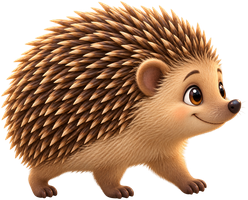
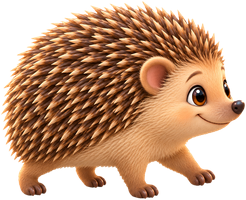
feat: Neuer KI-Igel mit allen vier Beinen
tools/ki-bild.py entfernt jetzt auch hellen Hintergrund (weiß oder
aufgemaltes Karomuster), wenn das KI-Bild nicht freigestellt ist.

Claude-Session: https://claude.ai/code/session_01ENXNh4hjQ4SLsuSQWgswJv

diff --git a/tools/ki-bild.py b/tools/ki-bild.py
@@ -2,6 +2,8 @@
 # Aufruf im Projektordner:  python3 tools/ki-bild.py <bild.png> <name>
 # Beispiel:                 python3 tools/ki-bild.py ~/Downloads/igel.png igel
 #
+# Hat das Bild keinen durchsichtigen Hintergrund, sondern einen hellen
+# (weiß oder ein aufgemaltes graues Karomuster), wird dieser entfernt.
 # Das Skript schneidet leere Ränder ab, macht das Bild überall ganz deckend
 # (KI-Bilder sind oft ein kleines bisschen durchsichtig) und verkleinert es
 # auf doppelte Spielgröße für scharfe Retina-Darstellung. Ergebnis:
@@ -11,7 +13,7 @@
 import sys
 from pathlib import Path
 
-from PIL import Image
+from PIL import Image, ImageDraw, ImageFilter
 
 # Größte Breite und Höhe im Spiel (in Punkten), in die das Bild passen muss
 SIZES = {
@@ -34,12 +36,39 @@ RETINA = 2
 CLEAR = 10  # Pixel, die fast durchsichtig sind, werden ganz durchsichtig
 SOLID = 240  # Pixel, die fast deckend sind, werden ganz deckend
 MARGIN = 4  # etwas Luft um das Bild lassen
+BACKGROUND_LIGHT = 205  # so hell muss der Hintergrund mindestens sein …
+BACKGROUND_GRAY = 30  # … und so wenig farbig (Sättigung von 0 bis 255)
+
+
+def remove_background(image):
+    """Entfernt hellen, grauen Hintergrund, der vom Bildrand aus zusammenhängt."""
+    rgb = image.convert('RGB')
+    light = rgb.convert('L').point(lambda v: 255 if v >= BACKGROUND_LIGHT else 0)
+    gray = rgb.convert('HSV').getchannel('S').point(lambda v: 255 if v <= BACKGROUND_GRAY else 0)
+    mask = Image.composite(light, Image.new('L', rgb.size, 0), gray)
+    # Vom Rand aus füllen: Nur Hintergrund, der den Rand berührt, wird entfernt
+    w, h = mask.size
+    border = [(x, 0) for x in range(w)] + [(x, h - 1) for x in range(w)]
+    border += [(0, y) for y in range(h)] + [(w - 1, y) for y in range(h)]
+    for point in border:
+        if mask.getpixel(point) == 255:
+            ImageDraw.floodfill(mask, point, 128)
+    alpha = Image.eval(mask, lambda v: 0 if v == 128 else 255)
+    # Kante etwas nach innen ziehen (kein heller Saum) und weich machen
+    alpha = alpha.filter(ImageFilter.MinFilter(5)).filter(ImageFilter.GaussianBlur(1.2))
+    result = rgb.convert('RGBA')
+    result.putalpha(alpha)
+    return result
+
 
 source, name = Path(sys.argv[1]), sys.argv[2]
 if name not in SIZES:
     sys.exit(f'Unbekannter Name „{name}“. Möglich: {", ".join(SIZES)}')
 
-image = Image.open(source).convert('RGBA')
+image = Image.open(source)
+if 'A' not in image.getbands() or image.getchannel('A').getextrema()[0] > CLEAR:
+    image = remove_background(image)
+image = image.convert('RGBA')
 alpha = image.getchannel('A').point(
     lambda v: 0 if v <= CLEAR else 255 if v >= SOLID else round((v - CLEAR) * 255 / (SOLID - CLEAR))
 )
